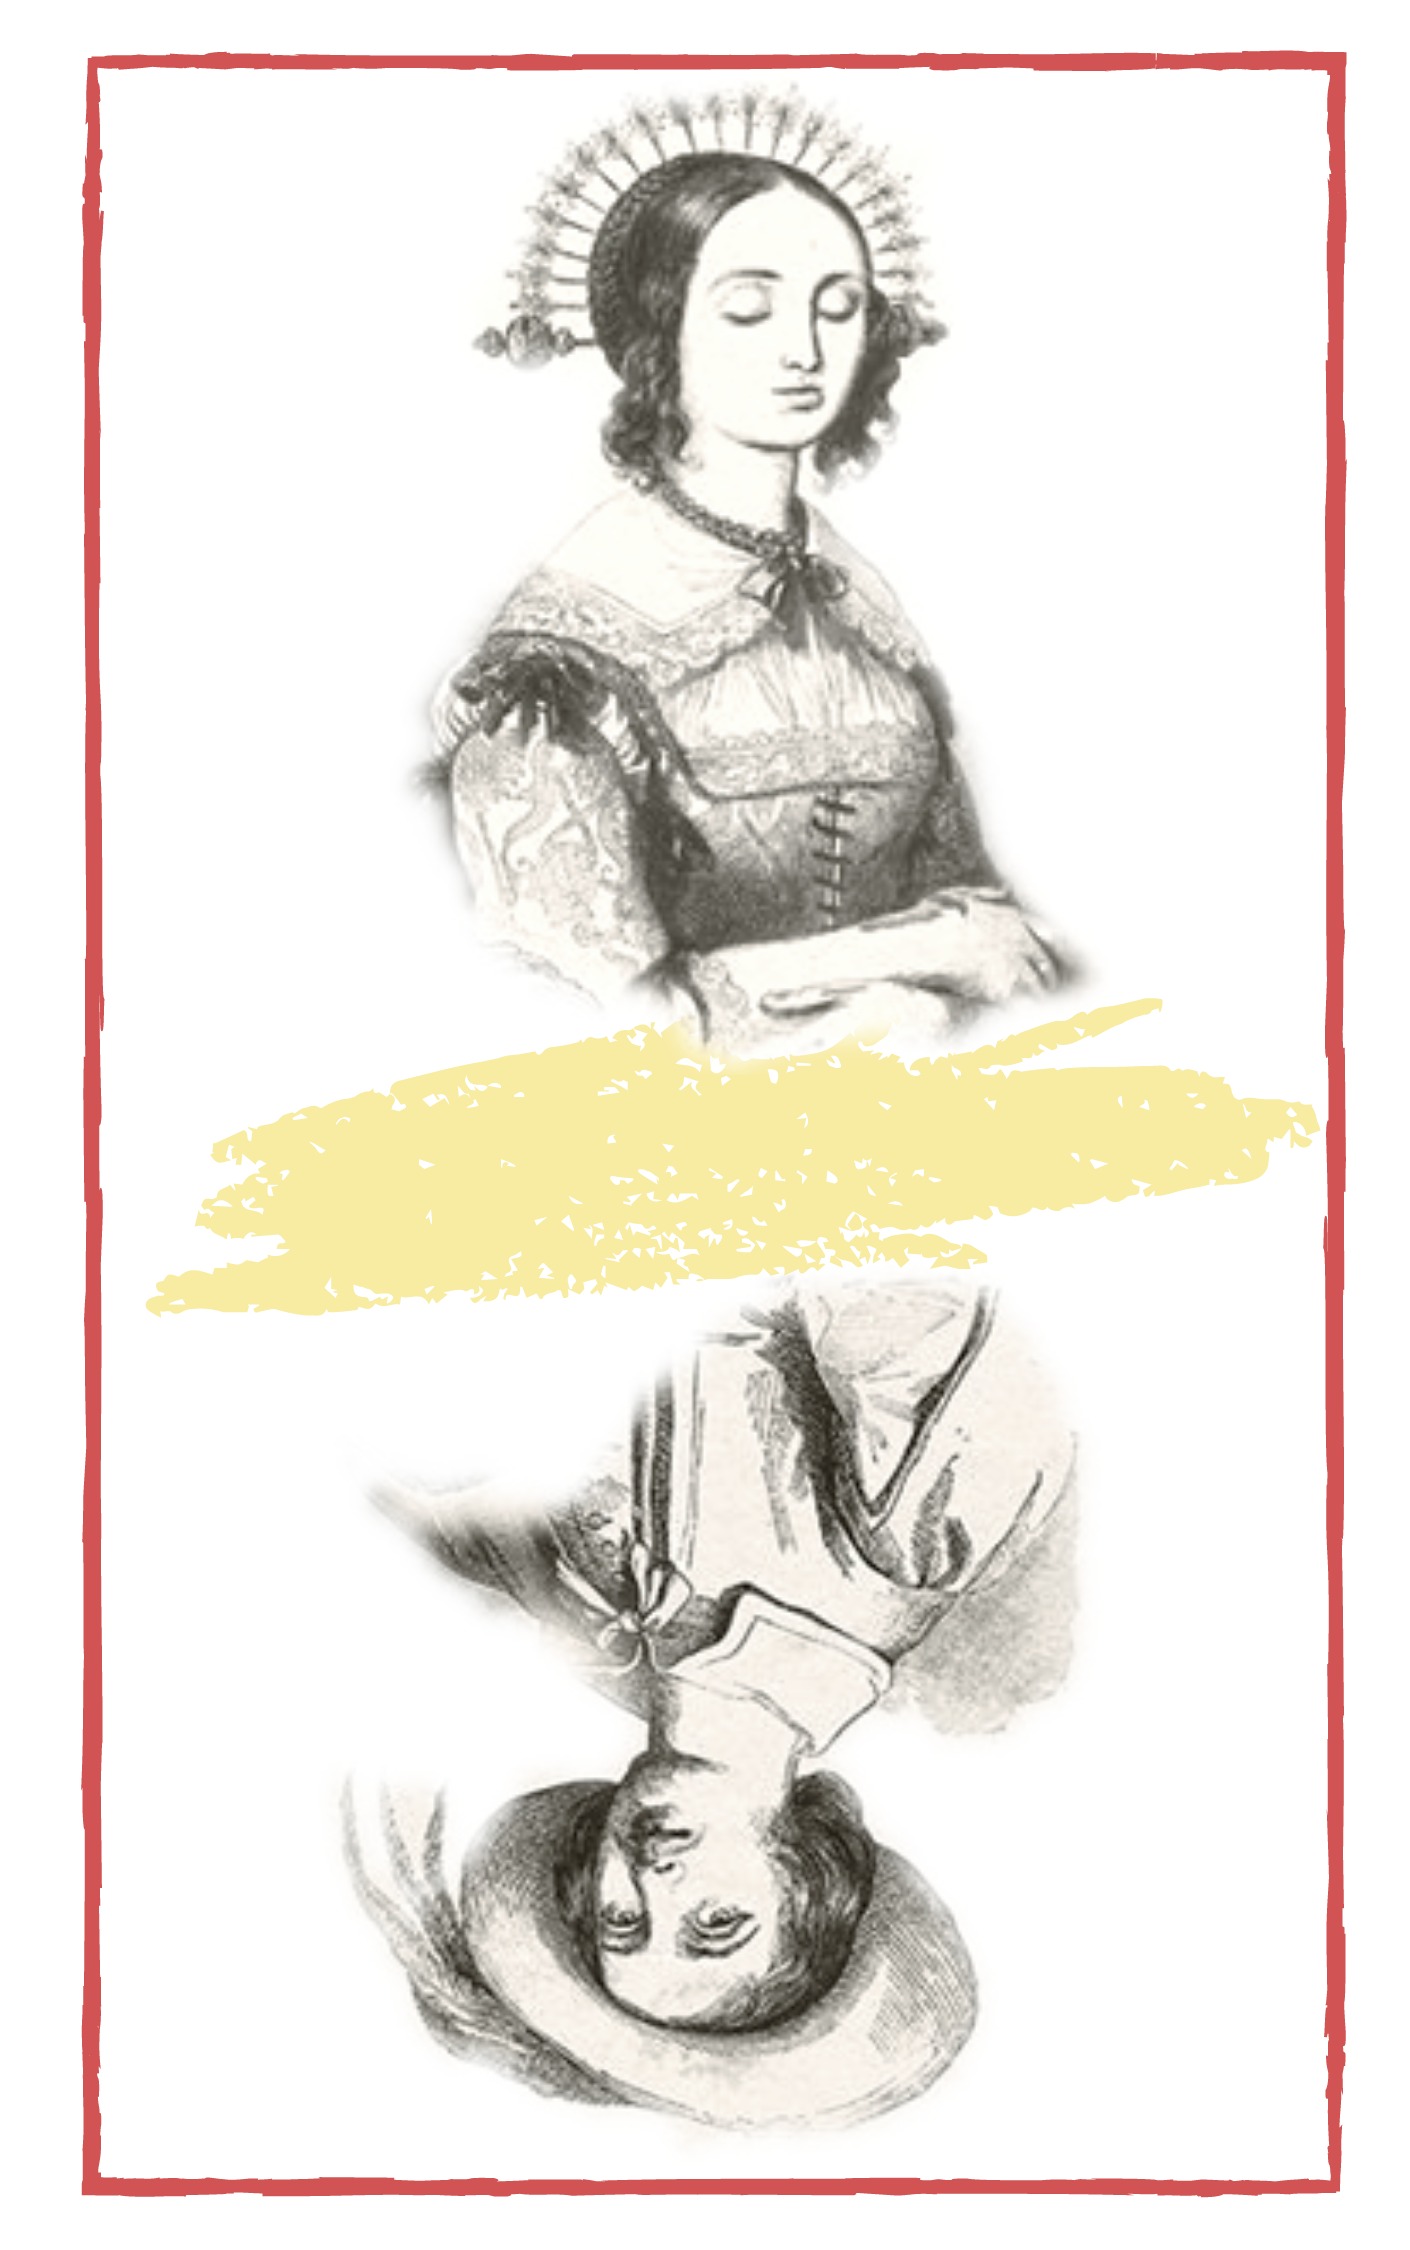
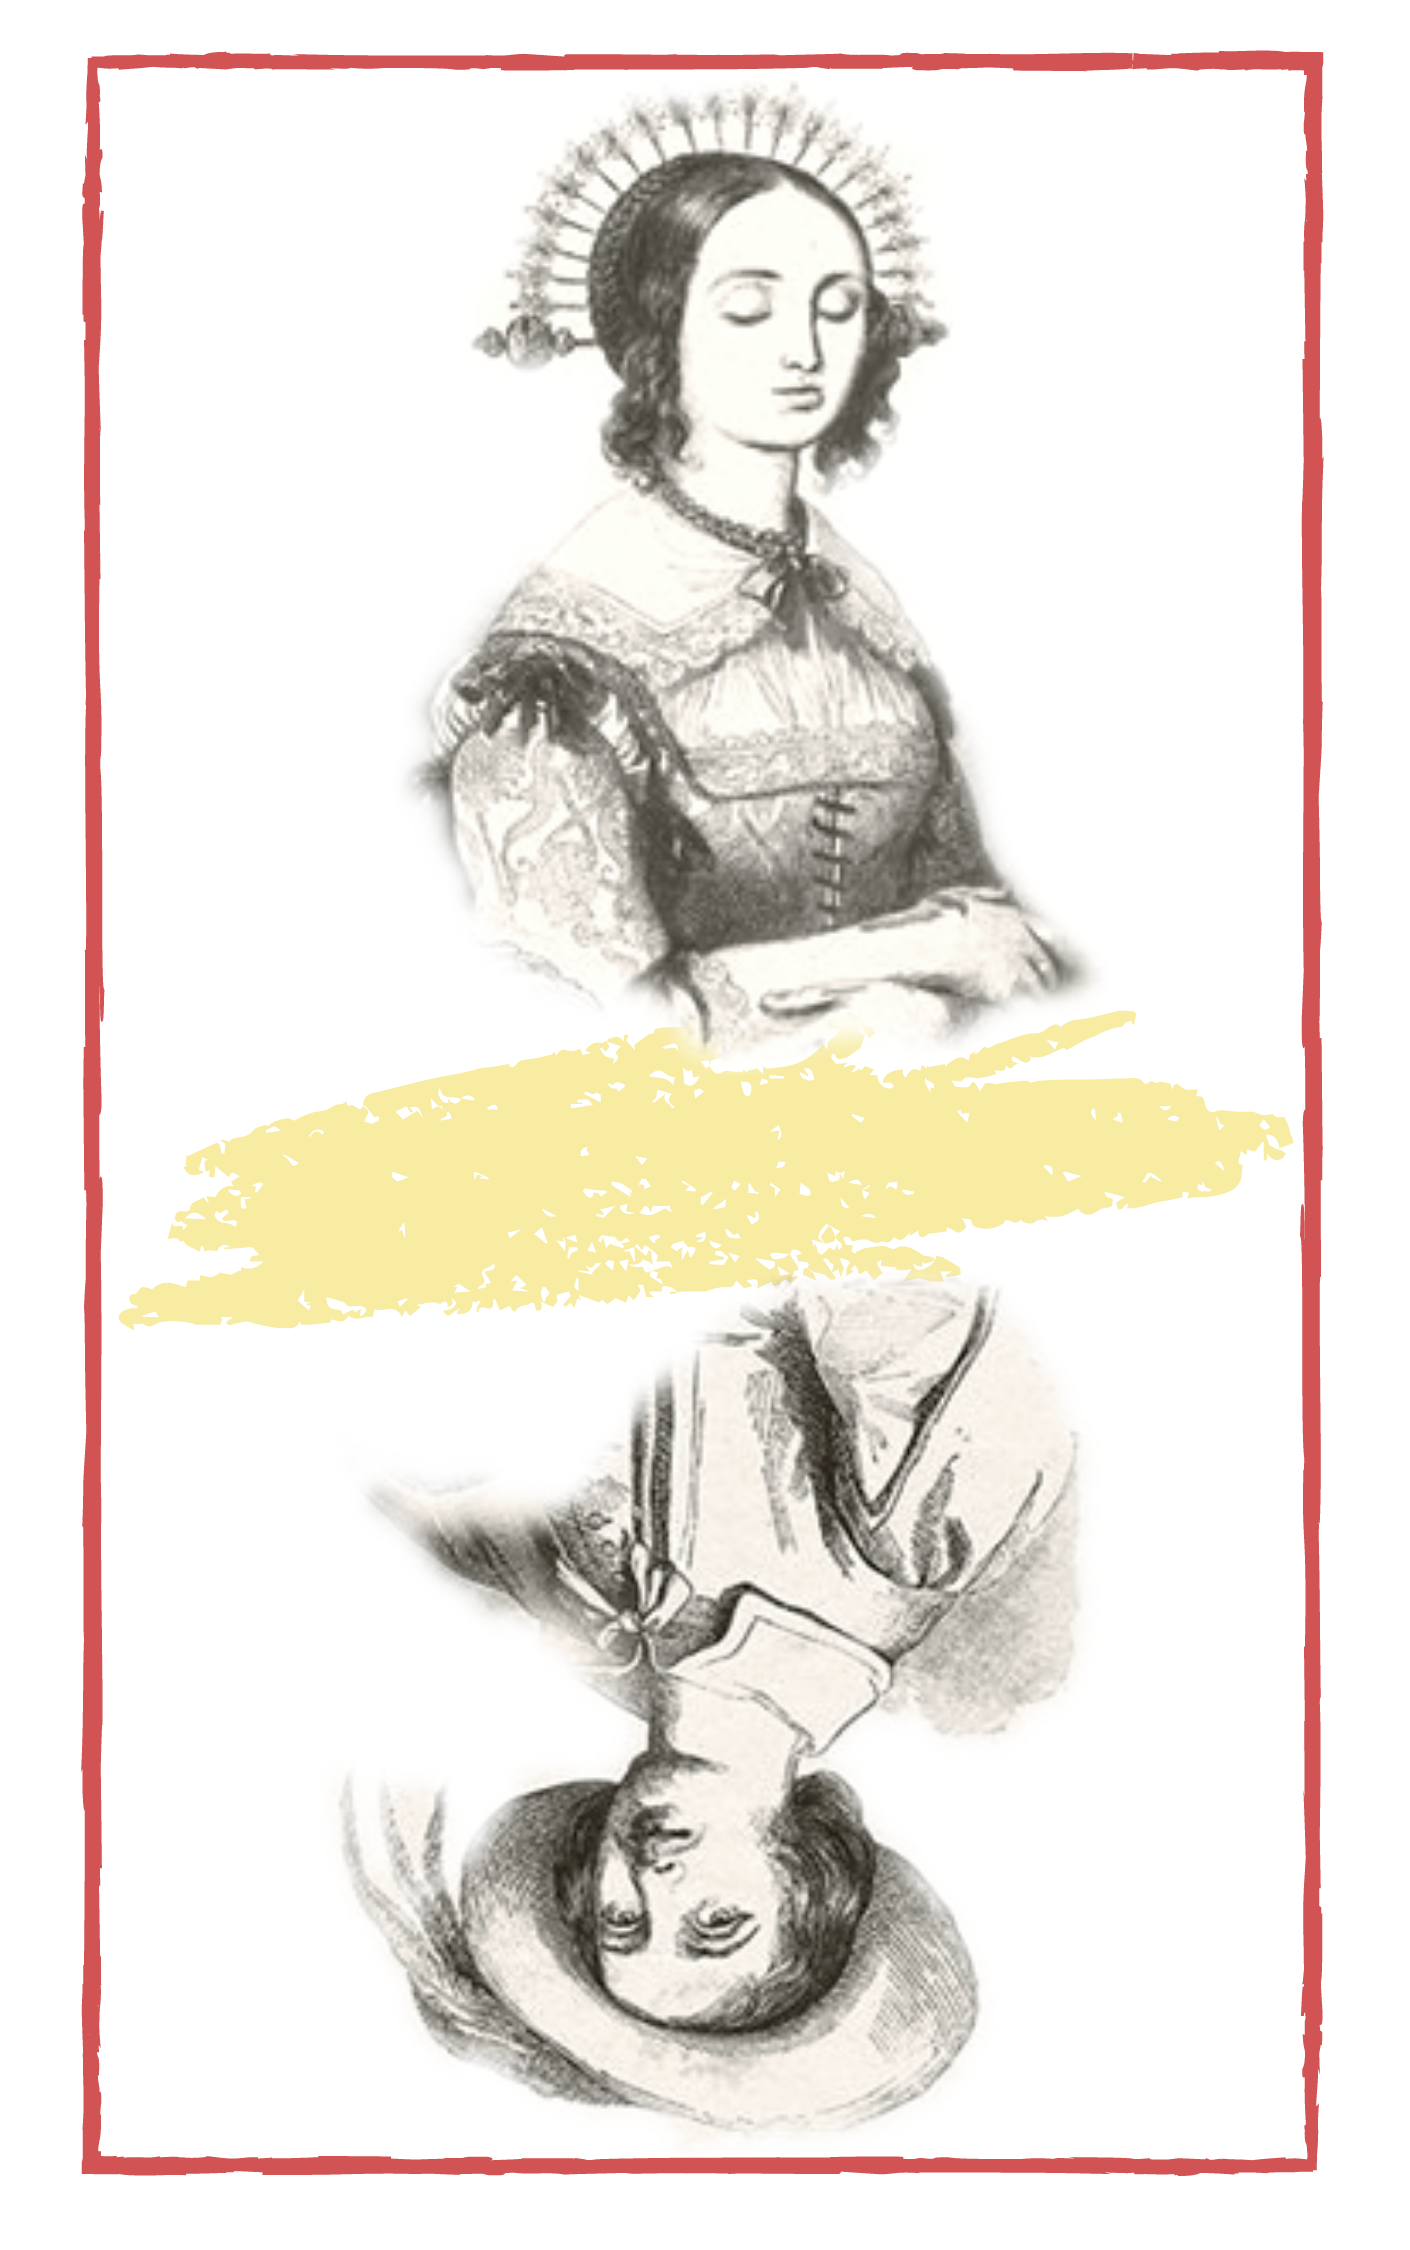
d

diff --git a/stylesheet.css b/stylesheet.css
@@ -5,14 +5,51 @@
 {font-family: BodoniFLF-Bold;
         src: url('font/BodoniFLF-Bold.ttf') format('truetype');}
 
-.book-cover{width:5cm ;
-height:2cm ;
-border-left: 5px solid black;
-border-right: 5px solid black;}
+
+
+                   
+body{width: auto;
+        background-color: black;
+         /* a few lines to be sure that the cover stays in the middle of the screen */
+         display: flex;
+         justify-content: center;
+margin-top: 8%;
+margin-bottom: 10%;}
+
+
+.book-cover{   text-align: center;
+        position: relative; 
+        width: 15cm;
+        height: 21;
+       }
 
 #author{font-family: BodoniFLF-BoldItalic;
         font-size: 66px;
+       
 }
 #title{font-family: BodoniFLF-Bold;
         font-size: 110px;
+        margin-top: -80px;      
 }
+
+.text-cover{position: absolute; 
+        white-space: nowrap;
+        top: 1010px; 
+      margin-left: 60%;
+color:#D15353;
+
+}
+
+.logo{margin-top:-45%;
+margin-left: 190%;}
+
+@media print {
+        body, div,  {
+                float:none;
+                margin:0;
+                padding:0;
+                position:static;
+             }
+     
+        body { background-image: none;
+        }

diff --git a/index.html b/index.html
@@ -9,10 +9,15 @@
         <link rel="icon" href="logo-libro.png">
     </head>
 <body>
+   
     <div class="book-cover">
-    <img src="promessi-sposi-cover.png" alt="cover promessi sposi">
-    <p id="author"> Alessandro Manzoni</p>
-    <p id="title">I promessi sposi</p>
-    <img src="logo.png" alt="logo publishing house">
+        <div class="text-cover">
+        <p id="author"> Alessandro Manzoni</p>
+        <p id="title">I promessi sposi</p>
+        </div>
+    <img id="cover-img" src="promessi-sposi-cover.png" alt="cover promessi sposi">
+    <img class="logo" src="logo.png" alt="logo publishing house">
     </div>
+   
+    
 </body>
